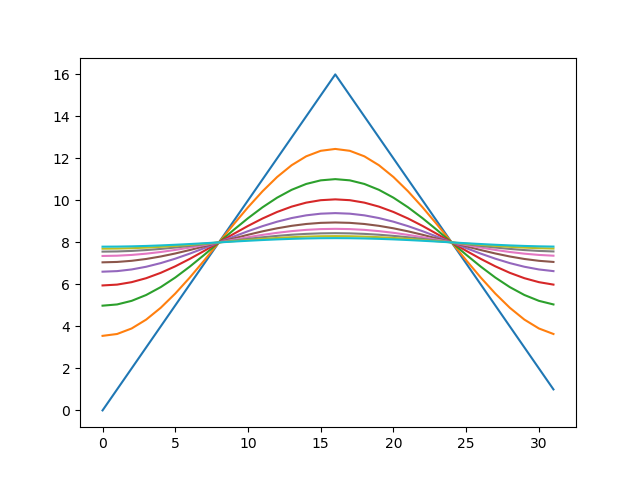
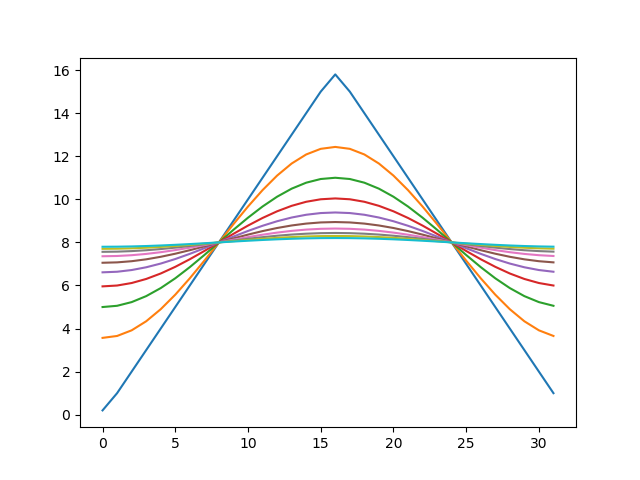
revises thermal.py

diff --git a/linear/thermal.py b/linear/thermal.py
@@ -1,29 +1,28 @@
-import matplotlib
-matplotlib.use('Agg') 
-import matplotlib.pyplot as plt
-import numpy as np
 import copy
 
+import matplotlib
+matplotlib.use('Agg')
+import matplotlib.pyplot as plt
+import numpy as np
 
-def calc(v, v2, h):
+
+
+def calc(v, h):
+    v2 = copy.copy(v)
     N = len(v)
     for i in range(N):
         i1 = (i+1) % N
         i2 = (i - 1 + N) % N
-        v2[i] = v[i] + (v[i1] - 2.0*v[i] + v[i2])*h
+        v[i] = v2[i] + (v2[i1] - 2.0*v2[i] + v2[i2])*h
 
 
 N = 32
-v = np.array([min(x,N-x) for x in range(N)],dtype='float64')
-v2 = np.zeros(N)
+v = np.array([min(x, N-x) for x in range(N)], dtype='float64')
 
 h = 0.1
 r = []
 for i in range(1000):
-    if (i % 2) == 0:
-        calc(v, v2, h)
-    else:
-        calc(v2, v, h)
+    calc(v, h)
     if (i % 100) == 0:
         r.append(copy.copy(v))
 
